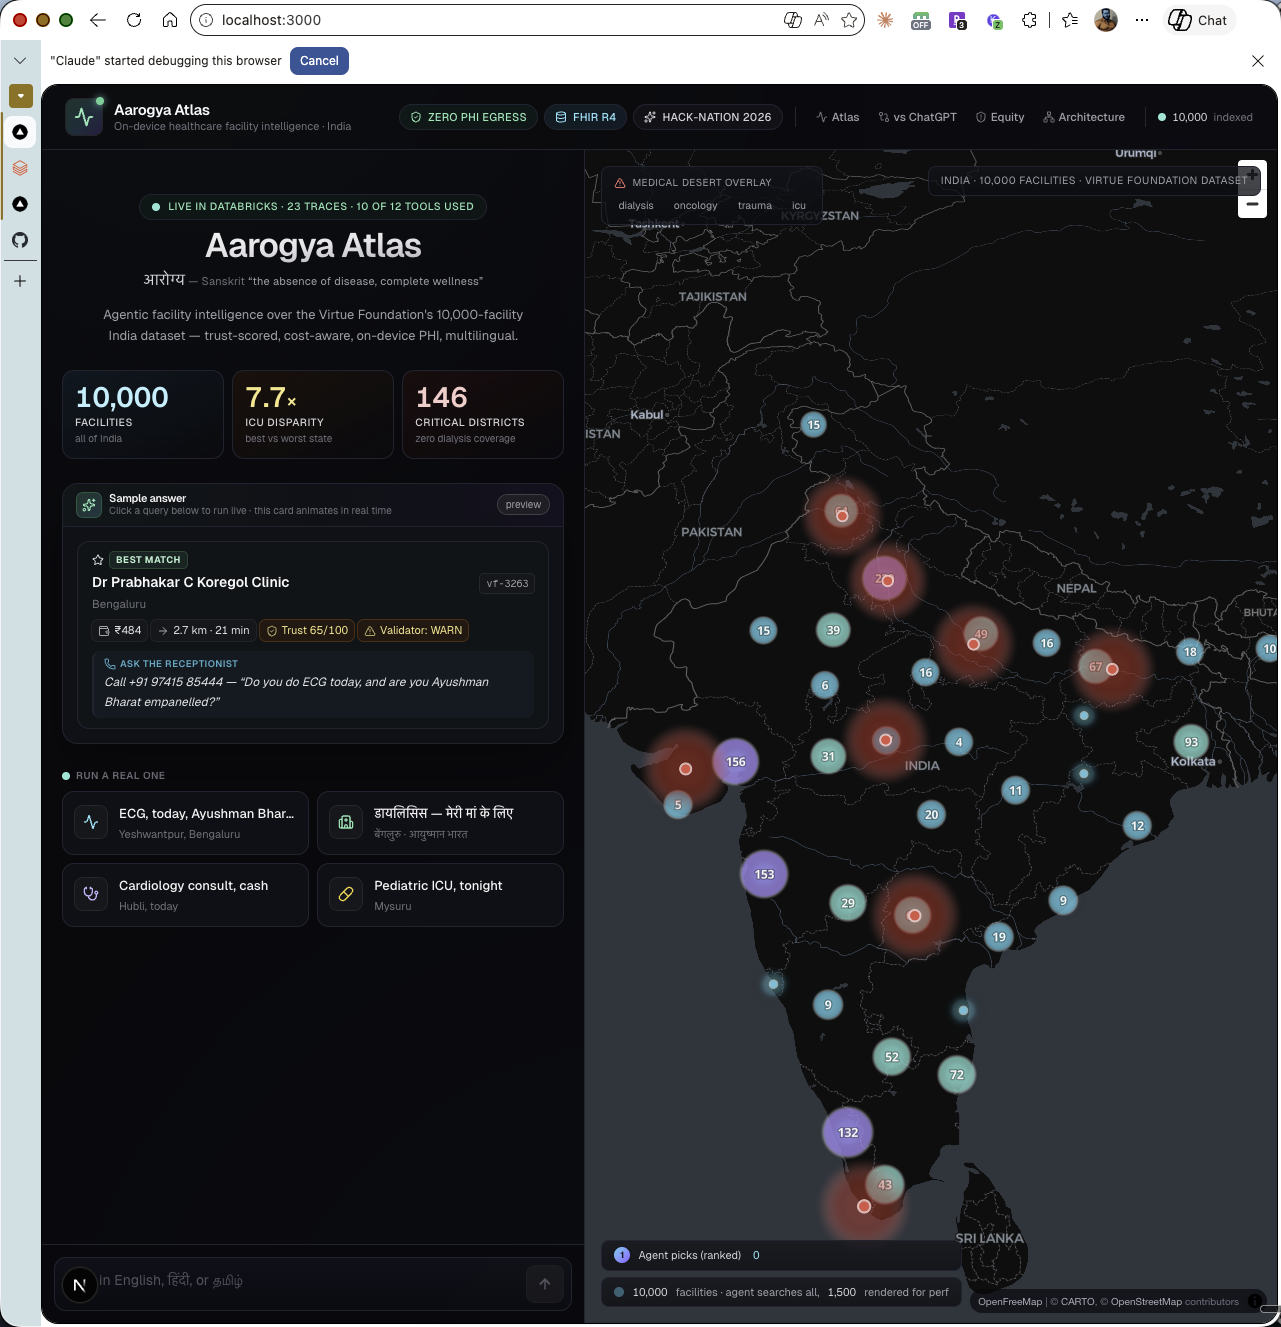
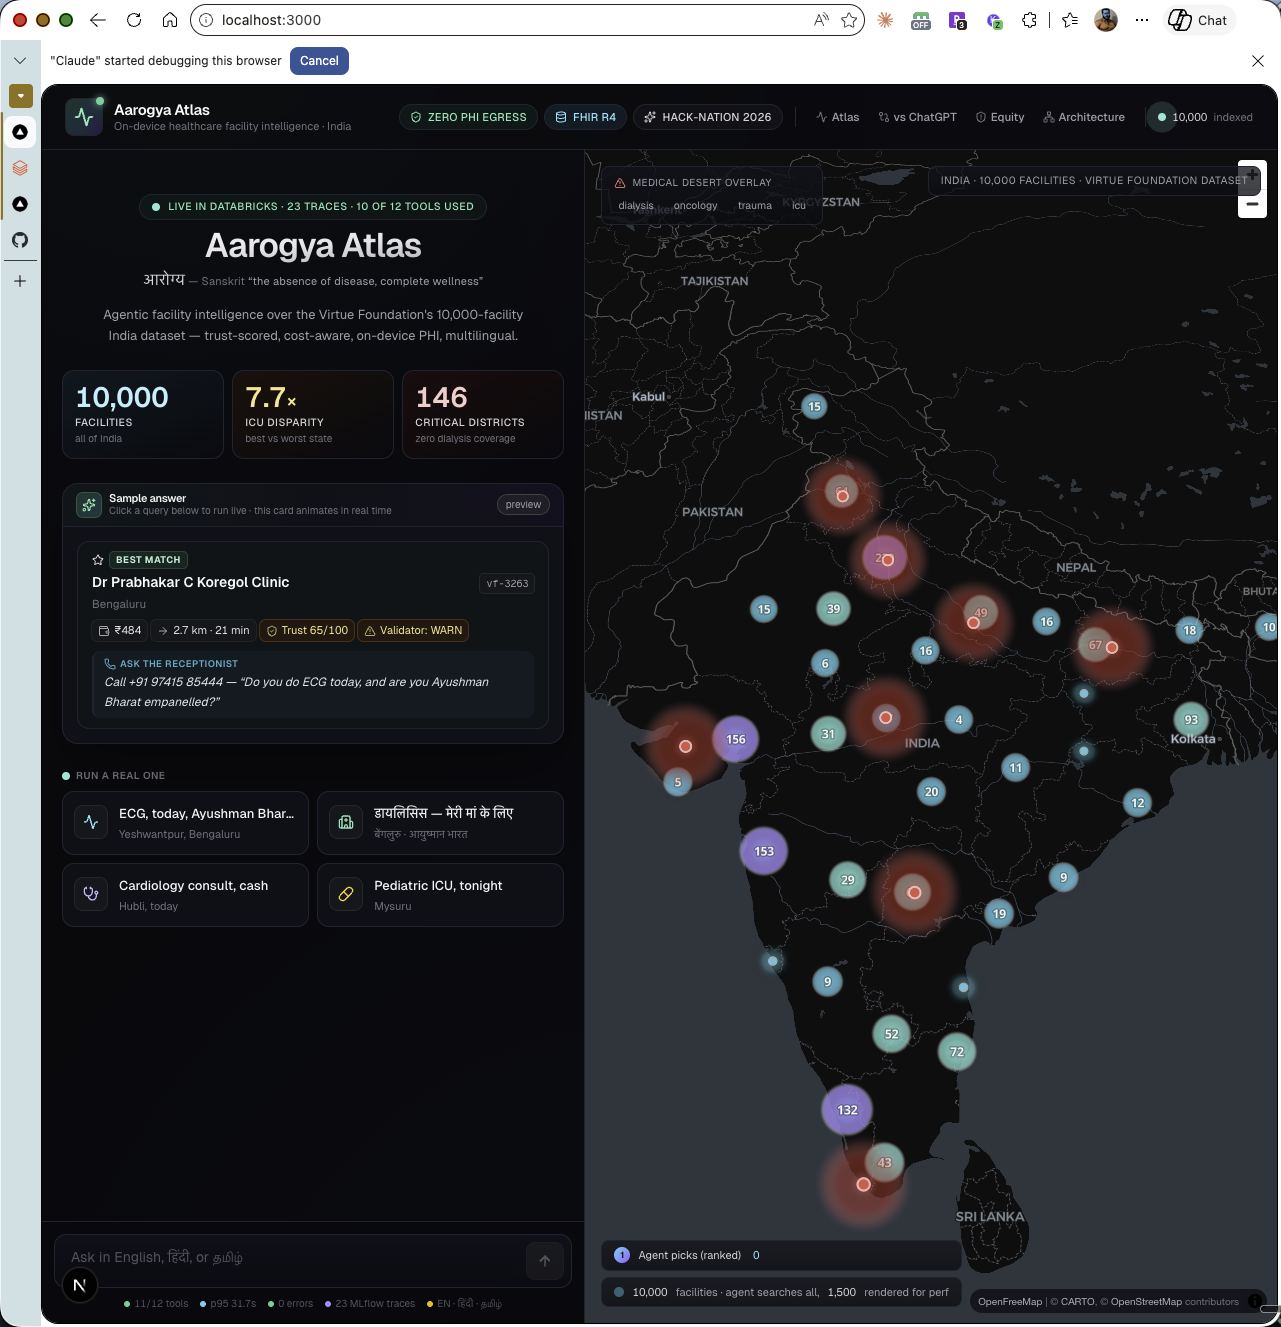
feat(ui): system status bar below chat input — Linear-style trust signals
Thin pill-row at the bottom of the chat panel shows live system signals:
  11/12 tools · p95 31.7s · 0 errors · 23 MLflow traces · EN/HI/TA

Color-coded dots (emerald/cyan/violet/amber). Always visible — judges
get an at-a-glance proof of system health without scrolling.

Also: layout.tsx metadata sharpened — title now 'Aarogya Atlas — Agentic
healthcare intelligence for 1.4B people' with OpenGraph card.

diff --git a/apps/web/src/components/AgentChat.tsx b/apps/web/src/components/AgentChat.tsx
@@ -232,8 +232,42 @@ export default function AgentChat({
             )}
           </div>
         </form>
+        <SystemBar />
       </div>
     </div>
+  );
+}
+
+function SystemBar() {
+  return (
+    <div className="mx-auto mt-2 flex max-w-2xl flex-wrap items-center justify-center gap-x-3 gap-y-1 text-[10px] text-zinc-600">
+      <SystemPill dot="emerald">11/12 tools</SystemPill>
+      <SystemPill dot="cyan">p95 31.7s</SystemPill>
+      <SystemPill dot="emerald">0 errors</SystemPill>
+      <SystemPill dot="violet">23 MLflow traces</SystemPill>
+      <SystemPill dot="amber">EN · हिंदी · தமிழ்</SystemPill>
+    </div>
+  );
+}
+
+function SystemPill({
+  dot,
+  children,
+}: {
+  dot: "emerald" | "cyan" | "violet" | "amber";
+  children: React.ReactNode;
+}) {
+  const colors = {
+    emerald: "bg-emerald-400",
+    cyan: "bg-cyan-400",
+    violet: "bg-violet-400",
+    amber: "bg-amber-400",
+  }[dot];
+  return (
+    <span className="inline-flex items-center gap-1 tab-num">
+      <span className={`inline-block h-1.5 w-1.5 rounded-full ${colors}`} />
+      {children}
+    </span>
   );
 }
 

diff --git a/apps/web/src/app/layout.tsx b/apps/web/src/app/layout.tsx
@@ -15,9 +15,15 @@ const geistMono = Geist_Mono({
 });
 
 export const metadata: Metadata = {
-  title: "Aarogya Atlas — On-device healthcare intelligence for India",
+  title: "Aarogya Atlas — Agentic healthcare intelligence for 1.4B people",
   description:
-    "Agentic, FHIR-native healthcare facility intelligence. Local LLM inference, zero PHI egress.",
+    "Trust-scored, cost-aware, multilingual recommender over the Virtue Foundation 10,000-facility India dataset. On-device PHI extraction, Mosaic AI Vector Search, MLflow tracing, district-level desert detection.",
+  openGraph: {
+    title: "Aarogya Atlas",
+    description:
+      "Agentic healthcare facility intelligence for 1.4B people. Trust-scored, cost-aware, multilingual.",
+    images: ["/og.png"],
+  },
 };
 
 export default function RootLayout({
